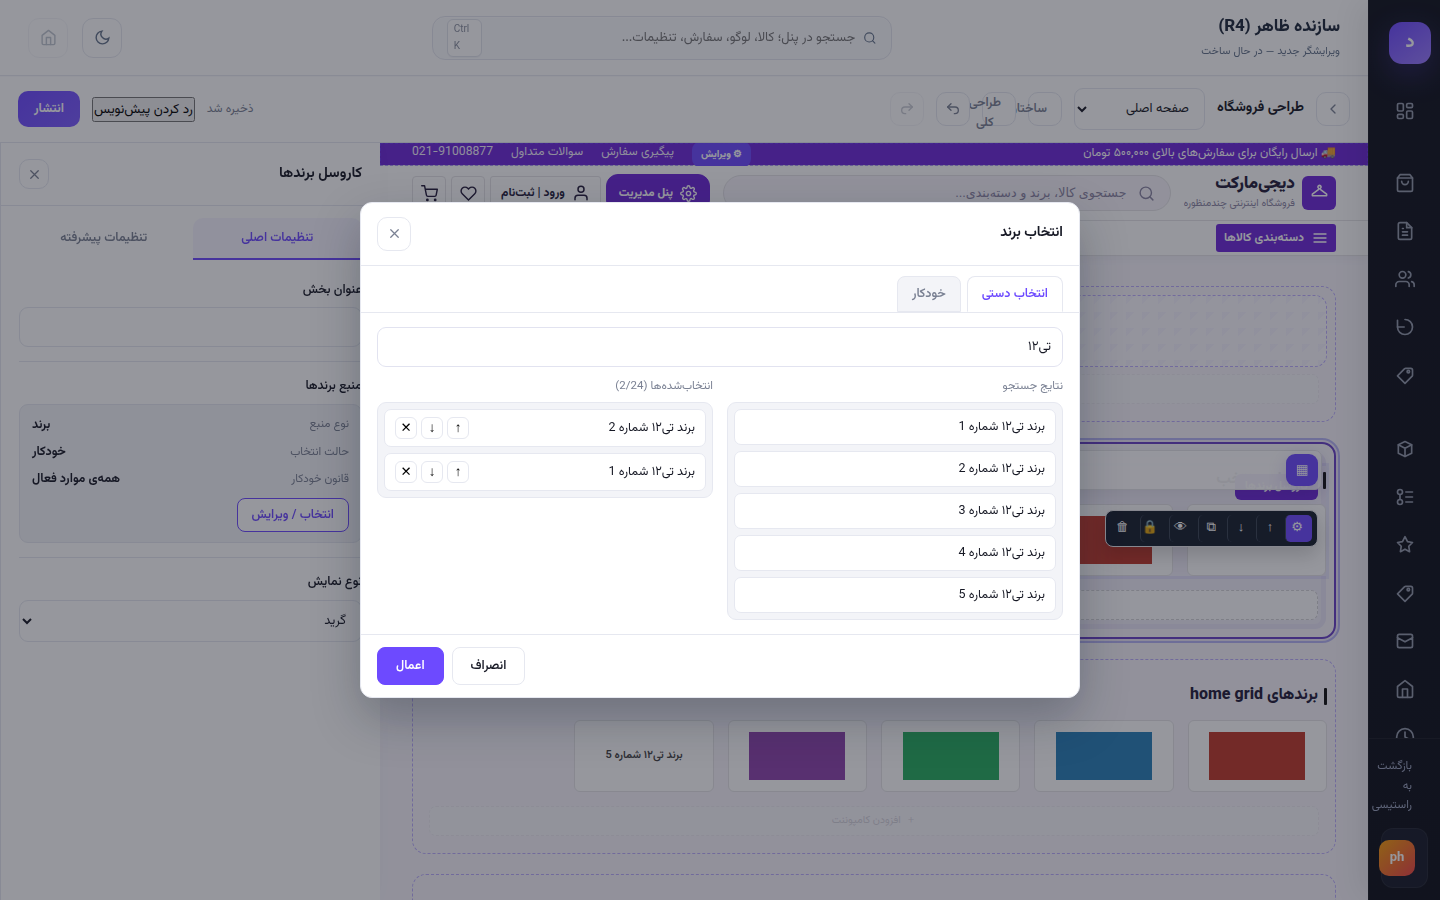
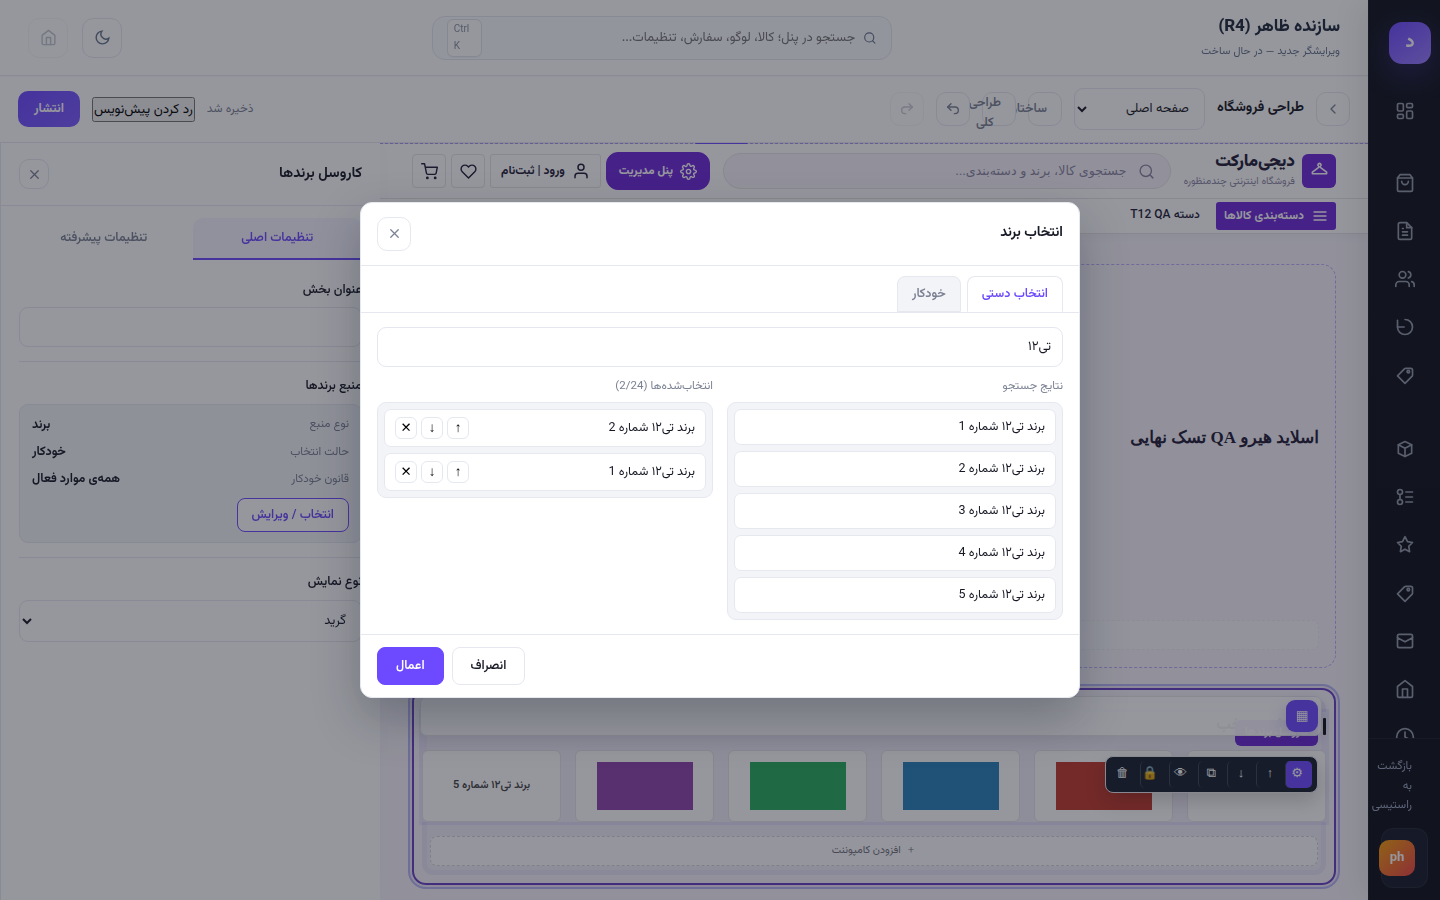
fix(storefront_builder): close story_rail render gap and best_sellers real-data gap; achieve clean 20/20 R4 browser harness
While driving the pre-Task-10 corrective closure's required complete R4
browser harness run to green, found and fixed two genuine, previously-
undetected production bugs (not QA-fixture-only issues):

- responsive_section_wrapper.html's single `{% include item.template_name
  with ... %}` whitelist (the one shared render path for both editor
  Preview and the public storefront) never forwarded `story_items` to
  story_rail.html. Every StoryRailItem, in Preview and on the real public
  storefront, has been silently unrenderable since story_rail's real
  fixture data was ever exercised against actual output — the previous
  "CERTIFIED" claim for this family was never actually visually verified.
  Fixed by adding `story_items=item.context.story_items` to the whitelist.
- best_sellers's own context builder deliberately computes from real
  OrderItem history (best_seller_service), never Product.sold_count — so
  the QA fixture's "reuse existing catalog demo data" assumption (correct
  for newest_products) was genuinely insufficient for best_sellers.
  qa_storefront_builder_r4.py's final-remediation fixture now creates one
  real Order + OrderItem against the real discounted Product.

Also fixed two bugs in the QA harness itself found while getting the full
--phase3 run clean:
- FINAL_REMEDIATION_SCALAR_EDITS' hero_banner check asserted `.hero-slide
  h1`, but hero_banner's own edited field (`hero_style`) is a real
[…]

diff --git a/apps/storefront_builder/templates/storefront_builder/partials/responsive_section_wrapper.html b/apps/storefront_builder/templates/storefront_builder/partials/responsive_section_wrapper.html
@@ -77,5 +77,5 @@ attribute-selectorِ پایه (در storefront_builder.css) غالب باشد.
     {% endif %}
   </div>
   {% endif %}
-  {% include item.template_name with section=item.context.section settings=item.context.settings effective_section_typography=item.context.effective_section_typography effective_section_appearance=item.context.effective_section_appearance hero_slides=item.context.hero_slides slider_settings=item.context.slider_settings banners=item.context.banners tiles=item.context.tiles cream_category=item.context.cream_category top_categories=item.context.top_categories products=item.context.products product=item.context.product deadline=item.context.deadline posts=item.context.posts brands=item.context.brands categories=item.context.categories view_all_url=item.context.view_all_url destination=item.context.destination category_grid_settings=item.context.category_grid_settings catalog_product_wall_groups=item.context.catalog_product_wall_groups catalog_product_wall_settings=item.context.catalog_product_wall_settings brand_carousel_settings=item.context.brand_carousel_settings collection_tiles=item.context.collection_tiles quick_link_items=item.context.quick_link_items video_embed_url=item.context.video_embed_url video_is_instagram=item.context.video_is_instagram video_permalink=item.context.video_permalink variant_selector=item.context.variant_selector product_price_json=item.context.product_price_json gallery_slides=item.context.gallery_slides review_count=item.context.review_count spec_variant_summary=item.context.spec_variant_summary approved_reviews=item.context.approved_reviews rating_breakdown=item.context.rating_breakdown can_review=item.context.can_review product_videos=item.context.product_videos related_products=item.context.related_products page_obj=item.context.page_obj query=item.context.query sort_key=item.context.sort_key sort_options=item.context.sort_options filter_categories=item.context.filter_categories selected_category=item.context.selected_category selected_brand=item.context.selected_brand min_price=item.context.min_price max_price=item.context.max_price discounted_only=item.context.discounted_only querystring=item.context.querystring collection=item.context.collection cart=item.context.cart cart_items=item.context.cart_items item_count=item.context.item_count totals=item.context.totals %}
+  {% include item.template_name with section=item.context.section settings=item.context.settings effective_section_typography=item.context.effective_section_typography effective_section_appearance=item.context.effective_section_appearance hero_slides=item.context.hero_slides slider_settings=item.context.slider_settings banners=item.context.banners tiles=item.context.tiles story_items=item.context.story_items cream_category=item.context.cream_category top_categories=item.context.top_categories products=item.context.products product=item.context.product deadline=item.context.deadline posts=item.context.posts brands=item.context.brands categories=item.context.categories view_all_url=item.context.view_all_url destination=item.context.destination category_grid_settings=item.context.category_grid_settings catalog_product_wall_groups=item.context.catalog_product_wall_groups catalog_product_wall_settings=item.context.catalog_product_wall_settings brand_carousel_settings=item.context.brand_carousel_settings collection_tiles=item.context.collection_tiles quick_link_items=item.context.quick_link_items video_embed_url=item.context.video_embed_url video_is_instagram=item.context.video_is_instagram video_permalink=item.context.video_permalink variant_selector=item.context.variant_selector product_price_json=item.context.product_price_json gallery_slides=item.context.gallery_slides review_count=item.context.review_count spec_variant_summary=item.context.spec_variant_summary approved_reviews=item.context.approved_reviews rating_breakdown=item.context.rating_breakdown can_review=item.context.can_review product_videos=item.context.product_videos related_products=item.context.related_products page_obj=item.context.page_obj query=item.context.query sort_key=item.context.sort_key sort_options=item.context.sort_options filter_categories=item.context.filter_categories selected_category=item.context.selected_category selected_brand=item.context.selected_brand min_price=item.context.min_price max_price=item.context.max_price discounted_only=item.context.discounted_only querystring=item.context.querystring collection=item.context.collection cart=item.context.cart cart_items=item.context.cart_items item_count=item.context.item_count totals=item.context.totals %}
 </div>

diff --git a/apps/storefront_builder/management/commands/qa_storefront_builder_r4.py b/apps/storefront_builder/management/commands/qa_storefront_builder_r4.py
@@ -783,12 +783,54 @@ class Command(BaseCommand):
         category, _ = Category.objects.get_or_create(
             store=store, slug="t12-category", defaults=dict(name="دسته T12", is_active=True),
         )
-        Product.objects.get_or_create(
+        discounted_product, _ = Product.objects.get_or_create(
             store=store, slug="qa-final-discounted-product",
             defaults=dict(
                 name="کالای تخفیفدار QA تسک نهایی", vendor=vendor, category=category,
                 sku="SKU-QA-FINAL-DISCOUNTED", price=Decimal("500000"), discount_percent=25,
                 status=Product.Status.ACTIVE,
+            ),
+        )
+
+        # best_sellers: reproduced live — render_service._best_sellers_context
+        # is deliberately NEVER computed from Product.sold_count (see
+        # best_seller_service's own module docstring: that field has no
+        # writer anywhere in the codebase); it ranks LIVE from real OrderItem
+        # rows in the last 30 days. Reusing "existing catalog demo data"
+        # (this gate's original assumption for newest_products/best_sellers/
+        # promo_cards) is correct for newest_products (ordered by
+        # -created_at) but was genuinely insufficient for best_sellers —
+        # confirmed by a real browser run timing out on `.pcard`, not merely
+        # theorized. A minimal real Order + OrderItem against the discounted
+        # Product above is the actual, not-avoided real data path.
+        from apps.customers.models import Customer
+        from apps.orders.models import Order, OrderItem, PaymentGateway, ShippingMethod
+
+        order_user, _ = get_user_model().objects.get_or_create(
+            username="qa-final-best-seller-customer", defaults=dict(is_active=True),
+        )
+        customer, _ = Customer.objects.get_or_create(
+            user=order_user, defaults=dict(full_name="مشتری QA تسک نهایی", phone="09120000000"),
+        )
+        shipping_method, _ = ShippingMethod.objects.get_or_create(
+            store=store, slug="qa-final-shipping", defaults=dict(name="ارسال QA"),
+        )
+        payment_gateway, _ = PaymentGateway.objects.get_or_create(
+            store=store, slug="qa-final-gateway", defaults=dict(name="درگاه QA"),
+        )
+        order, _ = Order.objects.get_or_create(
+            code="QA-FINAL-BESTSELLER-1",
+            defaults=dict(
+                store=store, customer=customer, vendor=vendor, address={"receiver_name": "مشتری QA", "city": "تهران"},
+                shipping_method=shipping_method, payment_gateway=payment_gateway,
+                items_total=Decimal("500000"), grand_total=Decimal("500000"),
+            ),
+        )
+        OrderItem.objects.get_or_create(
+            order=order, product=discounted_product,
+            defaults=dict(
+                product_name=discounted_product.name, quantity=1,
+                unit_price=Decimal("500000"), line_total=Decimal("500000"),
             ),
         )
 
